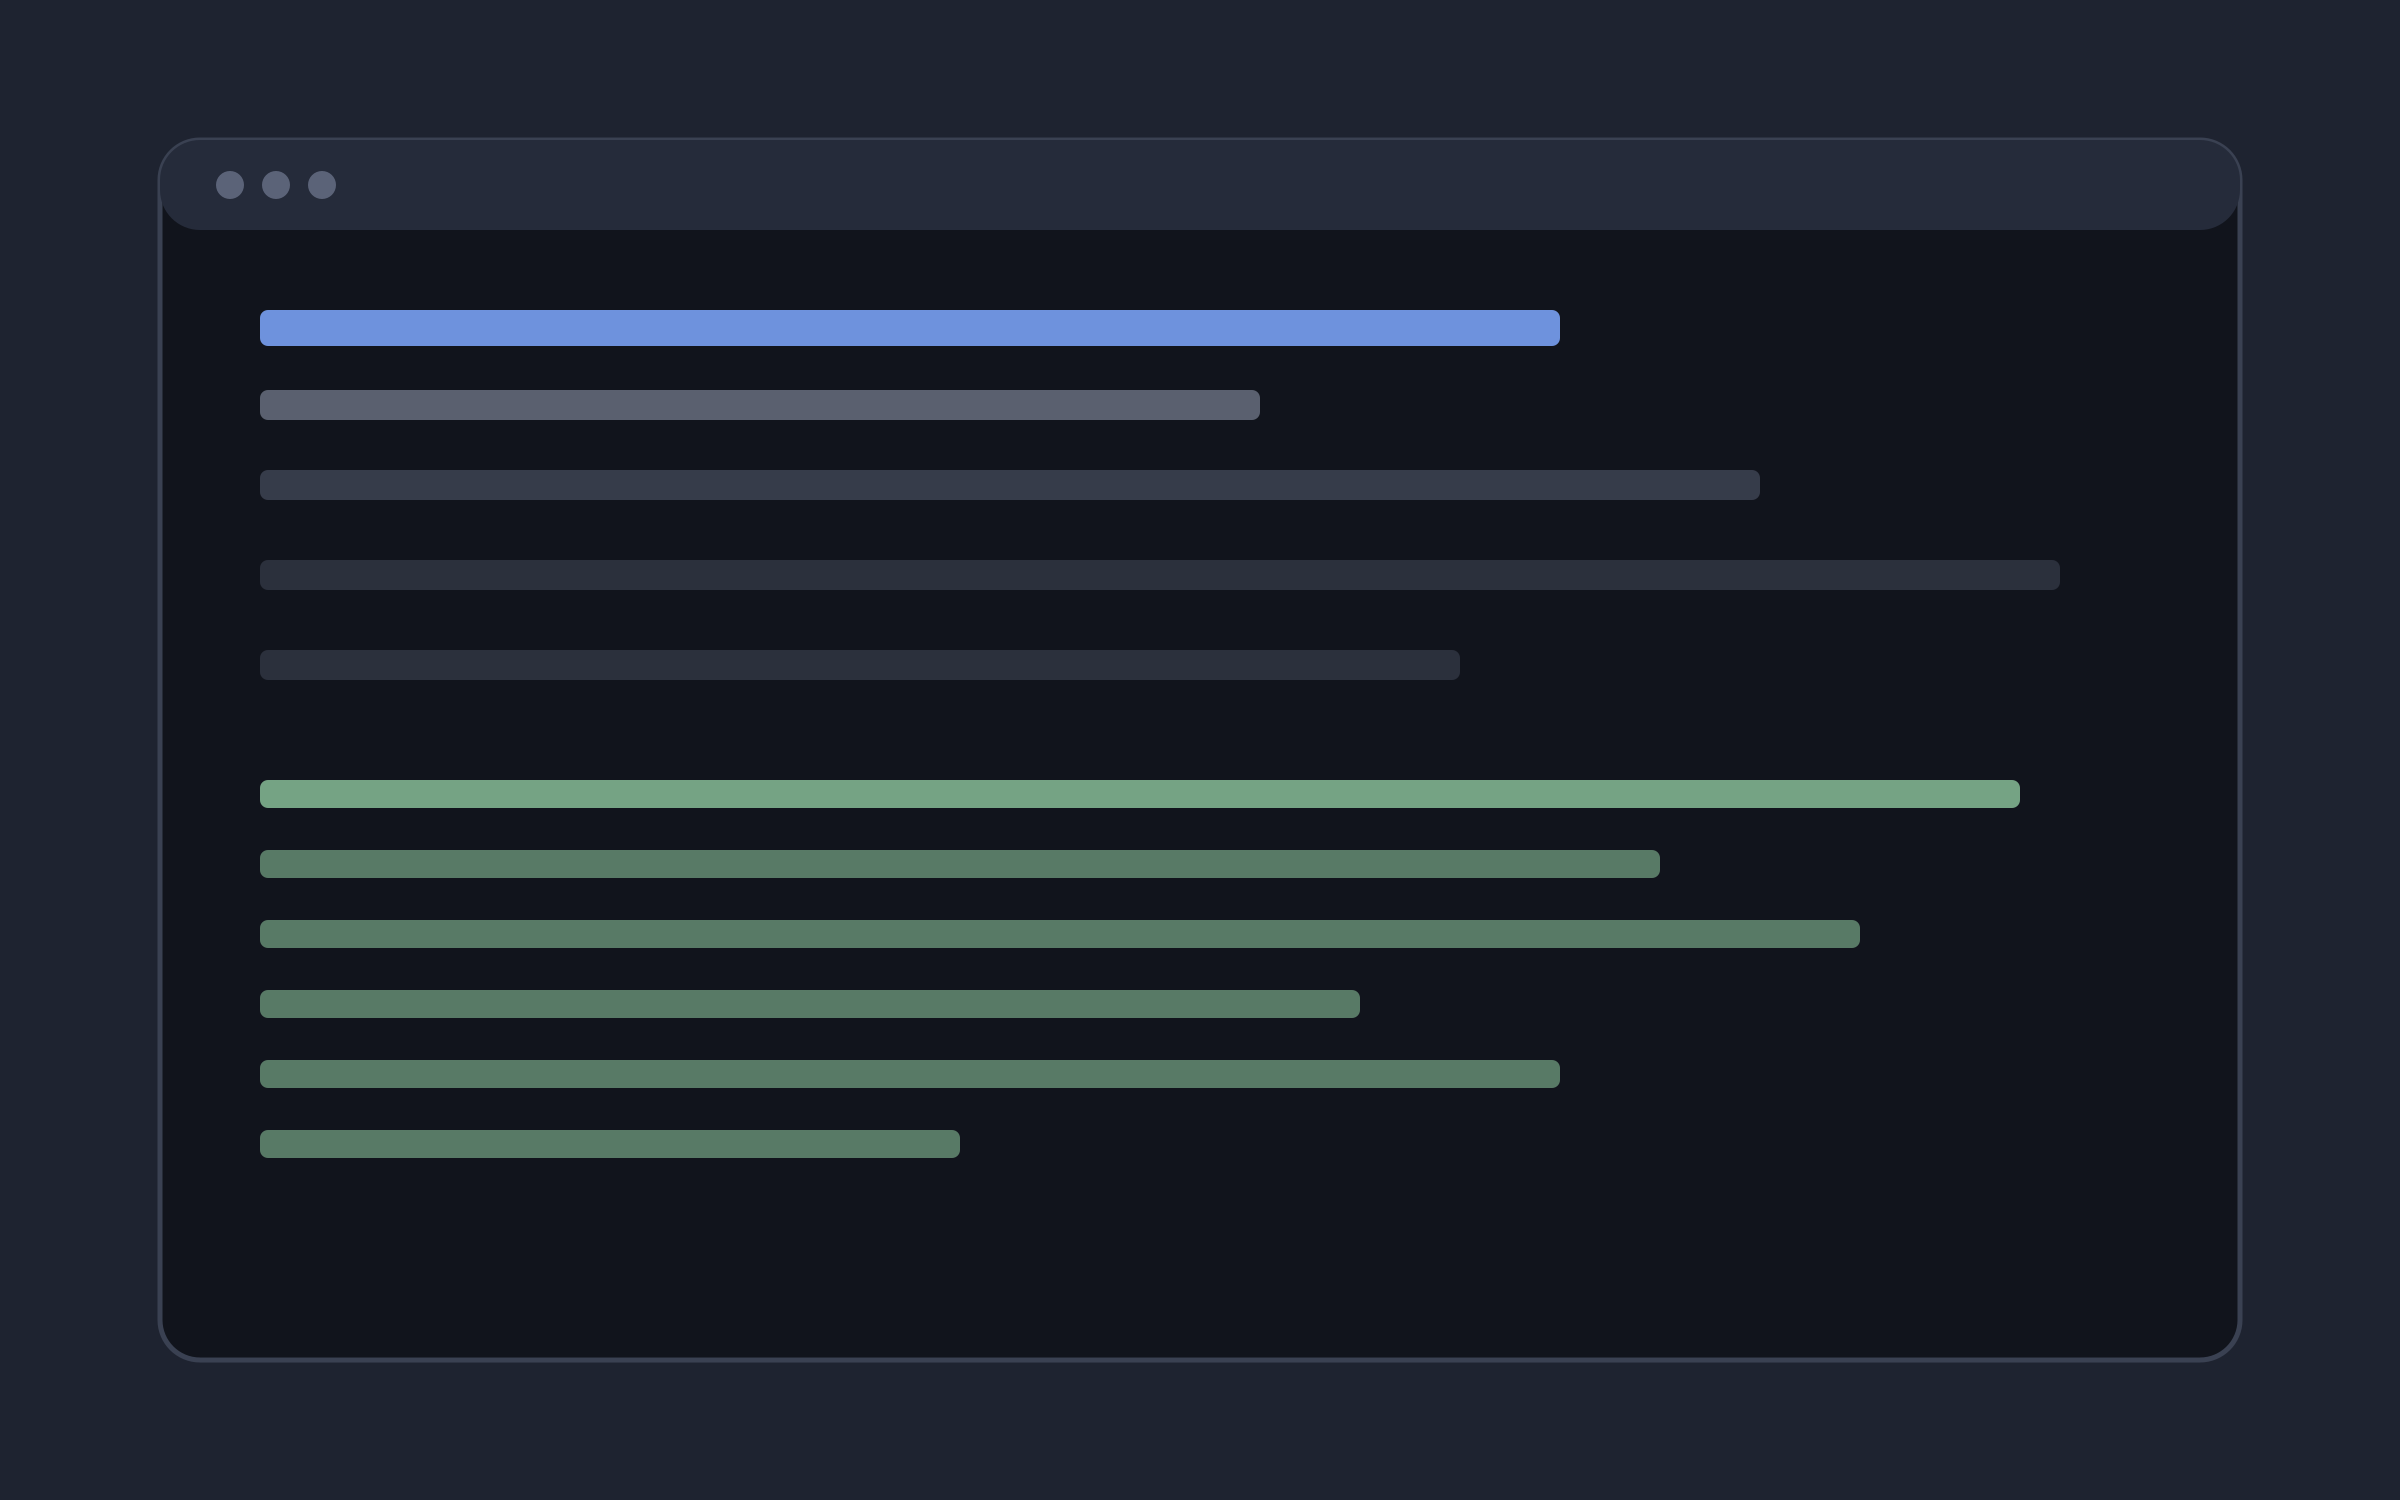
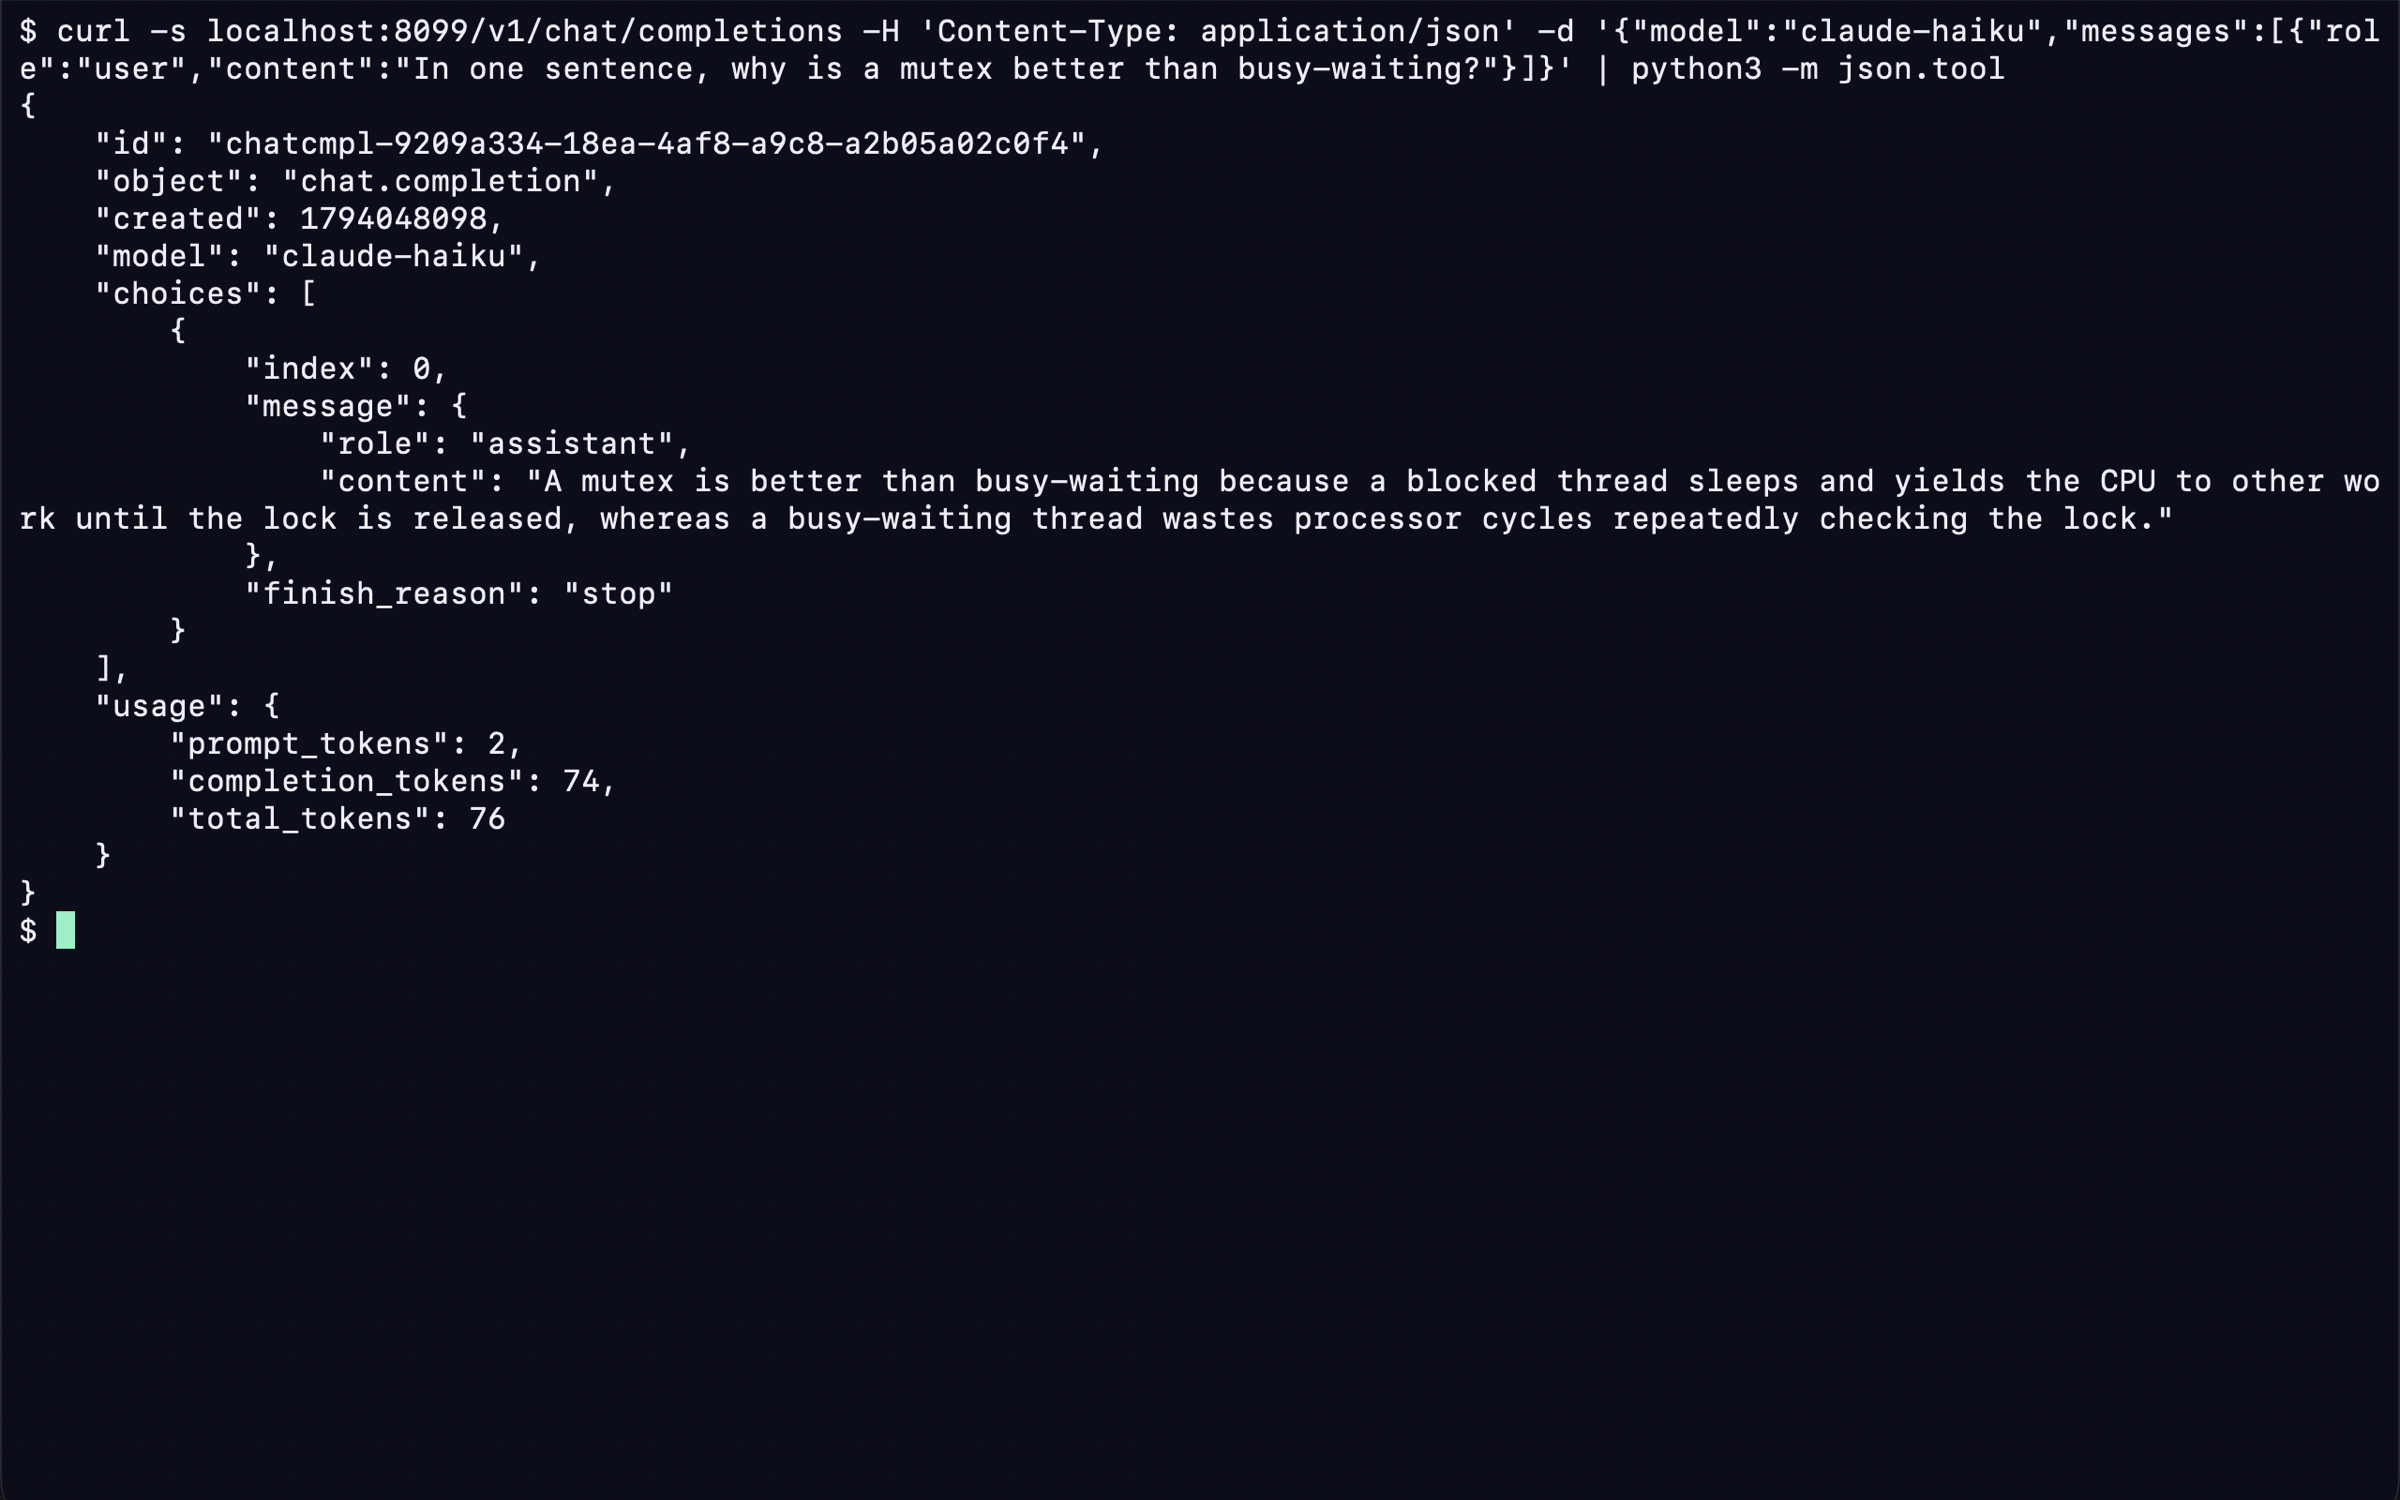
Real content: verified Facts, markuli and localAIWrapper images, approved copy (#4, partial)
Facts verified and sources recorded (markuli size is 1.6 MB, 11 MB footprint and
0.0% CPU measured on the v0.6.0 build, Mnemora and localAIWrapper checked against
release assets, code and a real run). Real Showcase Images for markuli (ink over
a demo dashboard) and localAIWrapper (a real request and reply). A build test now
fails if any Fact source is marked unverified. Mnemora image is still a placeholder.

diff --git a/docs/copy-draft.md b/docs/copy-draft.md
@@ -1,7 +1,7 @@
 # Site copy: draft for review
 
 Voice: plain, first-person, specific, with a touch of playfulness in the Card pitches. Terms follow `GLOSSARY.md`.
-Items marked **[verify]** must be checked before launch. Nothing here is final until the owner approves it.
+Copy approved by the owner on 2026-11-07. Remaining **[write after capture]** items are image alt text, which is now in the content files.
 
 ## Hero
 
@@ -17,8 +17,8 @@ Items marked **[verify]** must be checked before launch. Nothing here is final u
 
 - Pitch: Scribble on your screen, then make it vanish.
 - Body: A hotkey turns your whole screen into a whiteboard with Excalidraw-identical ink. Press it again and it's gone.
-- Fact 1: 1.5 MB download **[verify: README claim, measure the dmg]**
-- Fact 2: 11 MB idle RAM, 0% idle CPU **[verify: README claim, measure with Activity Monitor]**
+- Fact 1: 1.6 MB download (verified: release asset is 1,618,813 bytes)
+- Fact 2: 11 MB idle RAM, 0% idle CPU (verified: 11 MB footprint, 0.0% CPU)
 - Stack: Rust · native macOS · no webview
 - Links: Download (`/releases/latest`), Source
 - Image alt: markuli's red ink circling a bar in a chart on top of an app window. **[write after capture]**
@@ -50,7 +50,7 @@ I like software that starts instantly, keeps your data on your own device and do
 
 ### Path (Timeline)
 
-- Shiprocket · Backend engineer, 2025 - now **[verify: résumé title is "Graduate Engineer Trainee, Backend Engineering"]**
+- Shiprocket · Software Engineer, 2025 - now (owner-chosen wording)
 - IIT Kanpur · M.Tech, Computer Science
 - GEC Gandhinagar · B.E., Computer Engineering
 
